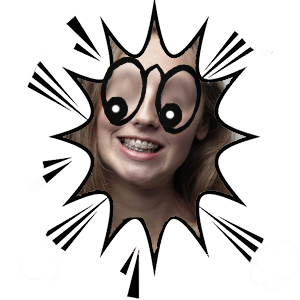
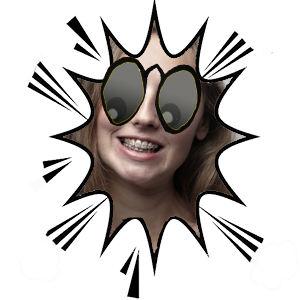
fix googleeye images updated

Changed region(s): [[0.33, 0.18, 0.48, 0.42], [0.51, 0.21, 0.66, 0.45]]

diff --git a/assets/js/script.js b/assets/js/script.js
@@ -144,7 +144,7 @@ function pcChoiceImg(choice) {
 
 // googley eye function
 function googleEyes() {
-    const middleImg = document.getElementById("middleImg");
+    //const middleImg = document.getElementById("middleImg");
     const quitbutton = document.getElementById("quit");
     const replaybutton = document.getElementById("play-again");
 
@@ -340,10 +340,11 @@ function winGame() {
         message = "Congatulations you win the round!";
         //disable rock, paper, scissor button clicks
         gamePaused = true;
+        googleEyes();
         document.querySelectorAll("#quit, #play-again").forEach(function (element) {
             element.style.display = "block";
         });
-        googleEyes();
+
         //makeChoiceParagraph.textContent = message;
 
     } else if (computerScore === 5) {
@@ -357,10 +358,10 @@ function winGame() {
         makeChoiceParagraph.textContent = message;
         //disable rock, paper, scissor button clicks
         gamePaused = true;
+        googleEyes();
         document.querySelectorAll("#quit, #play-again").forEach(function (element) {
             element.style.display = "block";
         });
-        googleEyes();
     } else {
         return;
     }
